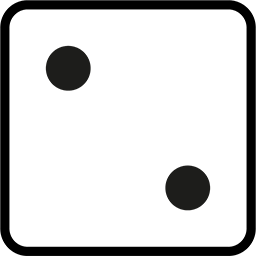
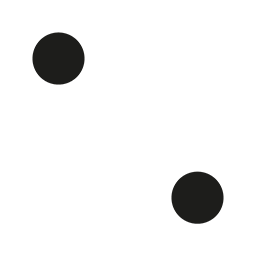
upgrade 2.1

Changed region(s): [[0.0, 0.0, 1.0, 1.0], [0.625, 0.625, 0.875, 0.875], [0.125, 0.125, 0.375, 0.375]]

diff --git a/app/page.tsx b/app/page.tsx
@@ -316,6 +316,11 @@ const [
 ] = useState(false);
 
 const [
+  bonusActivatedThisTurn,
+  setBonusActivatedThisTurn,
+] = useState(false);
+
+const [
   selectedGeneralValue,
   setSelectedGeneralValue,
 ] = useState<
@@ -953,7 +958,42 @@ setSelectedGeneralValue(
 };
 
 const activateBonus = () => {
-  if (bonusUsed) return;
+  if (bonusUsed) {
+  if (
+    bonusActivatedThisTurn
+  ) {
+      setRemainingRolls(
+        (prev) =>
+          prev - bonusDifference
+      );
+
+      setBonusUsed(false);
+
+      setLockedDice([
+        false,
+        false,
+        false,
+        false,
+        false,
+        false,
+      ]);
+
+      setConfirmedLockedDice([
+        false,
+        false,
+        false,
+        false,
+        false,
+        false,
+      ]);
+
+      setSelectedGeneralValue(
+        null
+      );
+    }
+
+    return;
+  }
 if (
   playModeBonusMode ===
     "general-only"
@@ -1001,6 +1041,10 @@ setSelectedGeneralValue(
 );
 
   setBonusUsed(true);
+
+setBonusActivatedThisTurn(
+  true
+);
 };
 
 const rollAllDice = () => {
@@ -1085,9 +1129,17 @@ const rollAllDice = () => {
             prev - 1
         );
 
-        setIsRolling(
-          false
-        );
+        setConfirmedLockedDice(
+  [...lockedDice]
+);
+
+setBonusActivatedThisTurn(
+  false
+);
+
+setIsRolling(
+  false
+);
       }
     }, 133);
 };
@@ -3163,9 +3215,17 @@ currentCombination && (
 </div>
 
       <div className="mt-6 rounded-3xl border border-zinc-800 bg-zinc-900 p-8">
-        <div className="mb-5 text-sm font-bold uppercase tracking-[0.2em] text-zinc-400">
-          Kostky
-        </div>
+        <div className="mb-6 flex items-center justify-between">
+  <div className="text-sm font-bold tracking-[0.3em] text-gray-400">
+    KOSTKY
+  </div>
+
+  {isLeaguePlayMode && (
+    <div className="text-xs font-bold uppercase tracking-[0.25em] text-green-400">
+      LIGOVÁ HRA
+    </div>
+  )}
+</div>
 
         <div className="flex flex-wrap justify-center gap-4">
   {playModeDice.map(
@@ -3180,11 +3240,11 @@ currentCombination && (
             index
           )
         }
-        className={`flex h-20 w-20 items-center justify-center rounded-2xl border-4 transition ${
+        className={`flex h-20 w-20 items-center justify-center rounded-xl border-0 transition ${
   lockedDice[
     index
   ]
-    ? "border-black bg-white shadow-xl shadow-yellow-500/70 ring-4 ring-yellow-400"
+    ? "border-yellow-400 bg-yellow-400"
     : "border-black bg-white"
 }`}
       >
@@ -3193,7 +3253,7 @@ currentCombination && (
             diceImages[dice]
           }
           alt={`Kostka ${dice}`}
-          className="h-18 w-18 object-contain"
+          className="h-[85%] w-[85%] object-contain"
           draggable={false}
         />
       </button>
@@ -3207,9 +3267,8 @@ currentCombination && (
     activateBonus
   }
   disabled={
-    bonusUsed ||
-    generalBonusBlocked
-  }
+  generalBonusBlocked
+}
             className={`h-24 rounded-2xl px-8 text-2xl font-black transition ${
   bonusUsed ||
   generalBonusBlocked
@@ -3332,7 +3391,7 @@ canSavePlayModeScore &&
                       "general-only" &&
                     playModeBonusRolls ===
                       6
-                  ? "bg-green-600 hover:bg-green-500"
+                  ? "bg-purple-600 hover:bg-purple-500"
                   : "bg-purple-600 hover:bg-purple-500"
             }`}
           >
